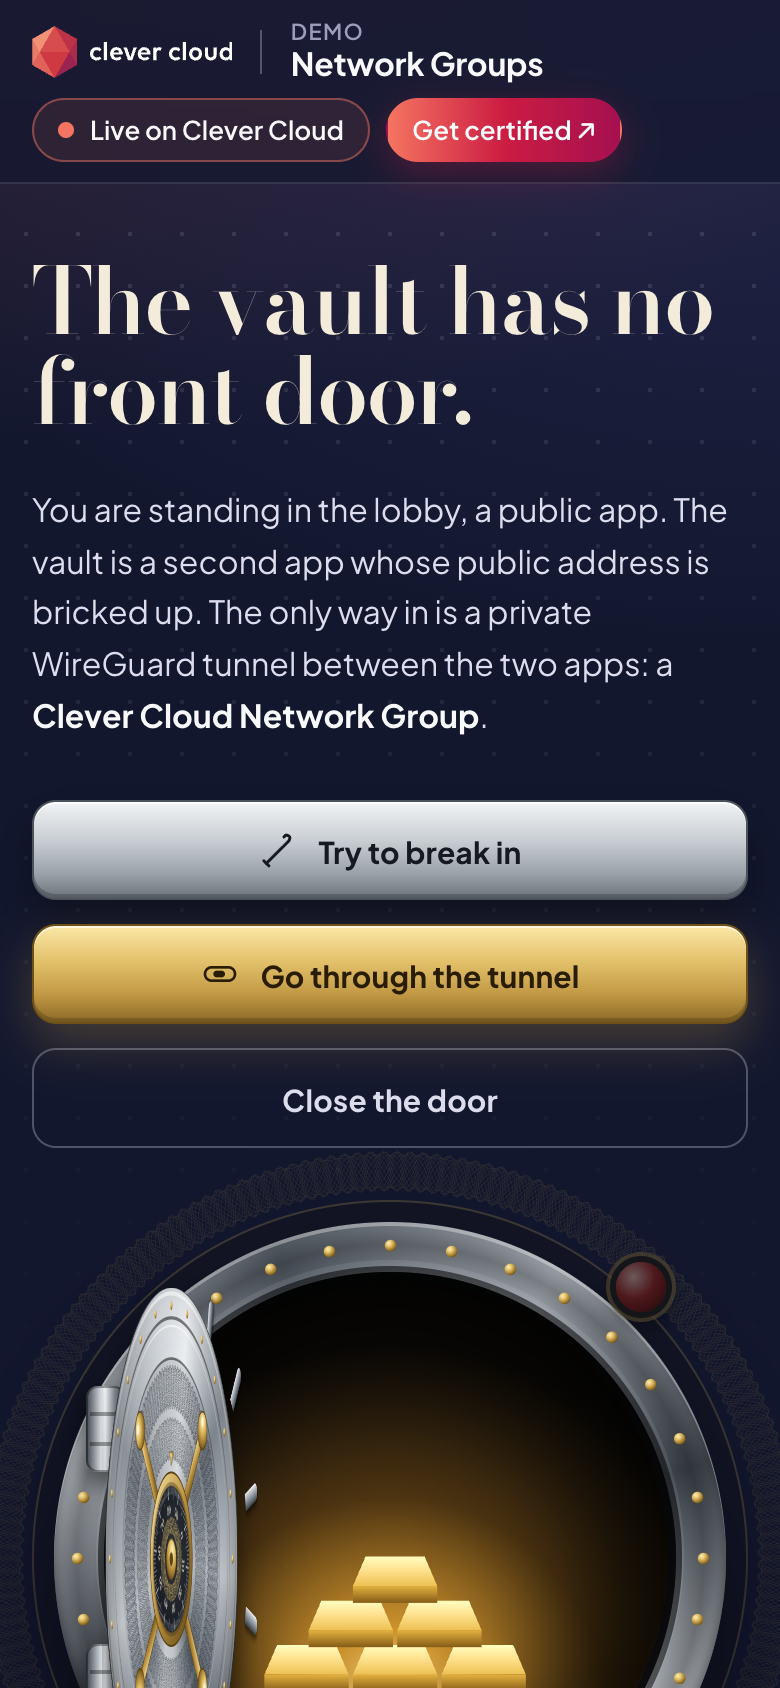
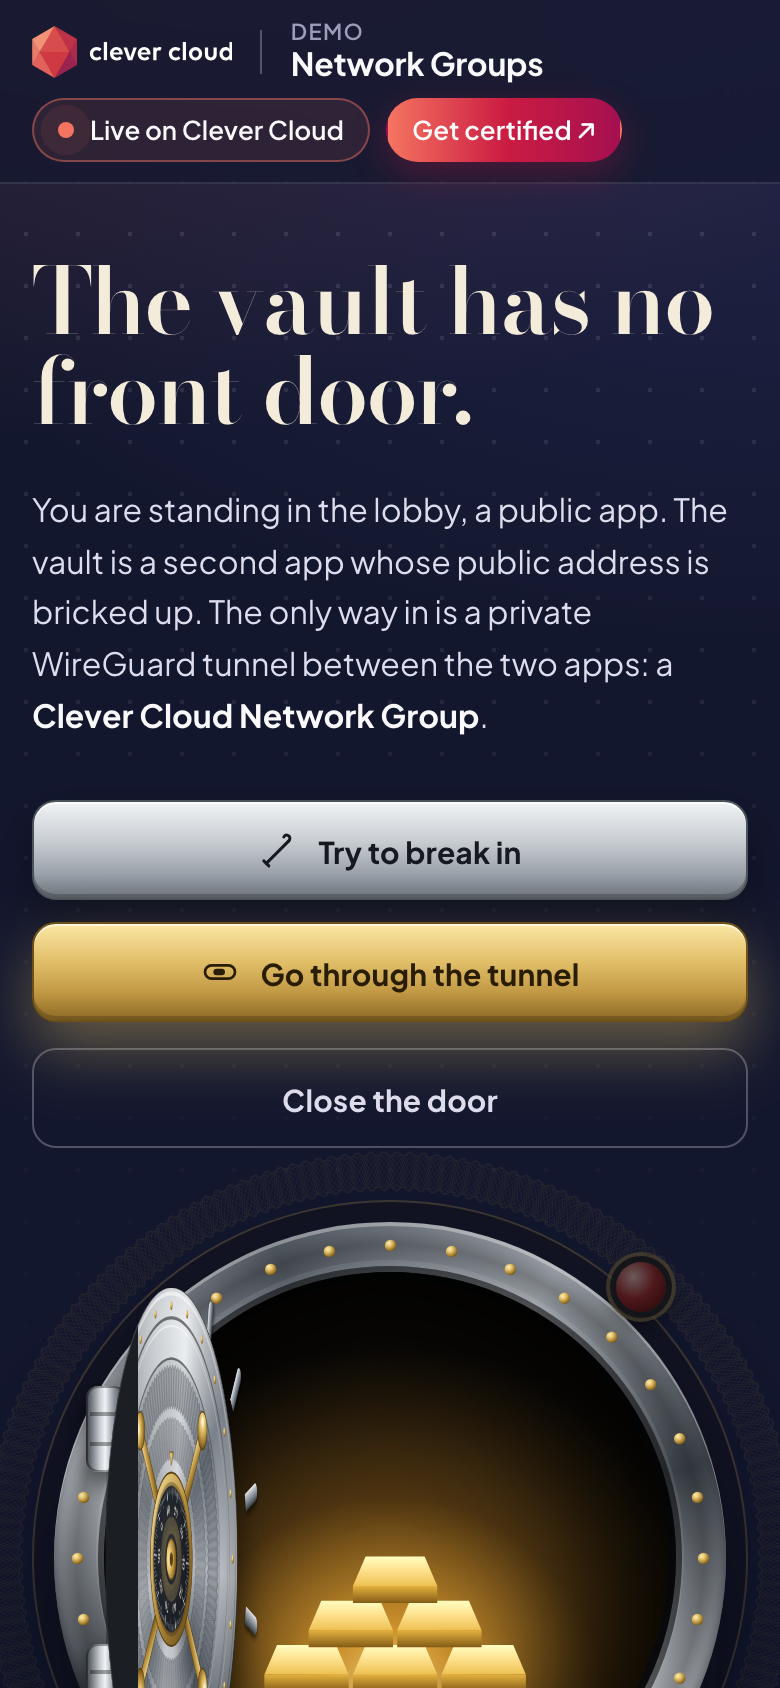
Tour and screenshots recorded live on Clever Cloud, hosted demo retired

Changed region(s): [[0.0615, 0.5237, 0.9538, 0.6161], [0.1231, 0.7701, 0.2462, 1.0]]

diff --git a/public/js/app.js b/public/js/app.js
@@ -53,6 +53,12 @@ function setBusy(value) {
 
 // ---------- rendering ----------
 function renderPlatform(platform) {
+  // "Live on Clever Cloud" only when the platform says so (APP_ID is injected by Clever Cloud).
+  const live = Boolean(platform.APP_ID);
+  $("livePill").classList.toggle("cc-pill--live", live);
+  $("livePill").classList.toggle("cc-pill--muted", !live);
+  $("livePill").firstElementChild.classList.toggle("cc-dot--muted", !live);
+  $("liveText").textContent = live ? "Live on Clever Cloud" : "Running locally";
   const labels = {
     CC_APP_NAME: "Application", APP_ID: "App ID", INSTANCE_NUMBER: "Instance", INSTANCE_TYPE: "Instance type",
     CC_PRETTY_INSTANCE_NAME: "Instance name", CC_COMMIT_ID: "Commit", CC_DEPLOYMENT_ID: "Deployment",

diff --git a/public/index.html b/public/index.html
@@ -42,7 +42,7 @@
     <span class="cc-topbar__spacer"></span>
     <nav class="cc-topbar__nav" aria-label="Status">
       <span class="cc-pill cc-pill--mono cc-hide-sm stack-pill">Bun, 2 apps, 1 Network Group</span>
-      <span class="cc-pill cc-pill--live"><span class="cc-dot"></span>Live on Clever Cloud</span>
+      <span class="cc-pill cc-pill--muted" id="livePill"><span class="cc-dot cc-dot--muted"></span><span id="liveText">Connecting</span></span>
       <a class="cc-pill cc-pill--gradient" href="https://academy.clever.cloud/" target="_blank" rel="noopener">Get certified ↗</a>
     </nav>
   </div>

diff --git a/README.md b/README.md
@@ -2,7 +2,7 @@
 
 > Two apps and a private tunnel. The **lobby** is a public Bun app. The **vault** is a second app whose public address is bricked up: Clever's Request Flow `block` mode answers its default domain, so no request from the internet ever reaches its code. The only way in is a **Network Group**, a WireGuard mesh between the two apps. Press "Try to break in" and the lobby's server attacks the vault's public address three ways, and fails three times. Press "Go through the tunnel" and the same server calls the vault at its private member name: the dial spins, the bolts retract, the door swings open on the crown jewels.
 
-![Both apps run locally (local mode, the lobby calls the vault over loopback): "Go through the tunnel" is pressed, the dial spins and the vault door opens on the gold, then closes](docs/tour.gif)
+![The demo live on Clever Cloud, both apps linked by a Network Group: "Go through the tunnel" is pressed, the lobby calls the vault over WireGuard in under 2 ms, the dial spins and the vault door opens on the gold, then closes](docs/tour.gif)
 
 ![The vault door open after a trip through the Network Group](docs/screenshot-desktop.png)
 
